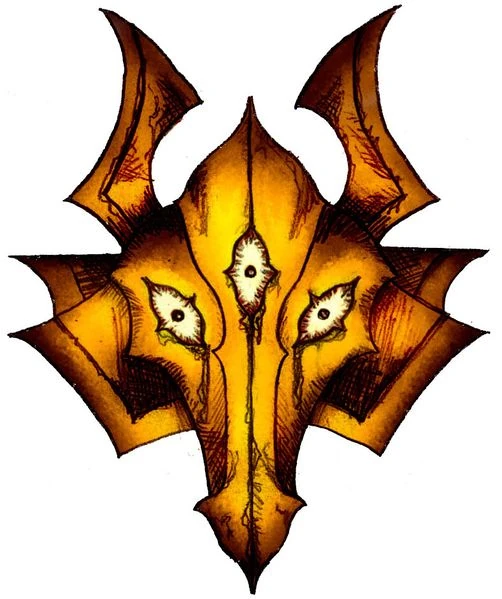
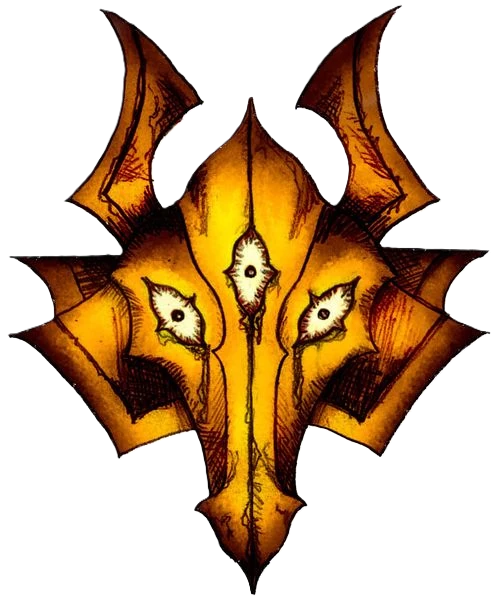
Pari bugi-korjausta, kuvien taustoja poistettu

diff --git a/quartz/styles/base.scss b/quartz/styles/base.scss
@@ -568,8 +568,8 @@ img.portrait {
 
 img.deity-picture,
 img.diety-picture {
-  width: 175px;
-  max-width: 100%;
+  width: 170px;
+  max-width: 170px;
   height: auto;
 }
 

diff --git a/content/02_World/Lore/Varisia.md b/content/02_World/Lore/Varisia.md
@@ -28,7 +28,7 @@ Varisialaiset ovat vaeltava kansa, jolle tie, suku ja yhteisöllinen muisti ovat
 
 ## Kulttuuri
 
-<img src="../03_Images/Varisian.png" alt="Varisian" class="portrait" />
+<img src="../03_Images/Varisian.png" alt="Varisian" class="diety-picture" />
 
 Varisialaisessa kulttuurissa korostuvat perhe, vapaus, tarinat ja matkanteko. Musiikki, tanssi, tatuoinnit ja suullinen perinne ovat merkittävä osa identiteettiä. Monissa suvuissa harrow-kortit liittyvät ennustamiseen, perimätietoon ja rituaaleihin.
 
